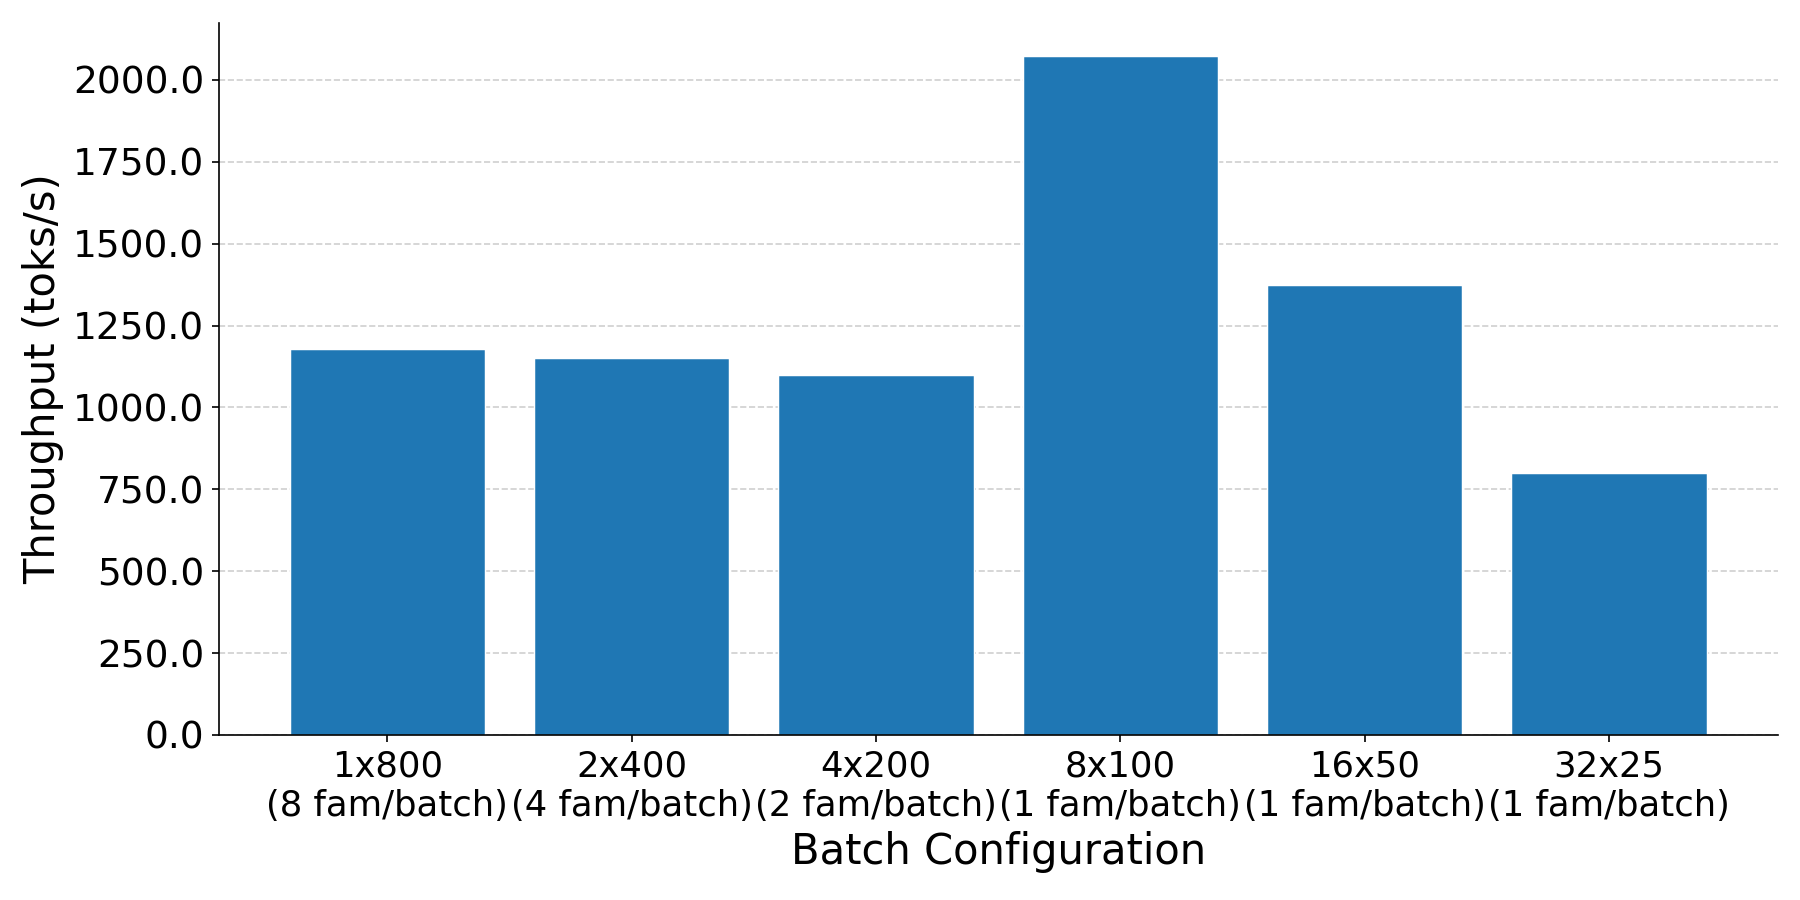
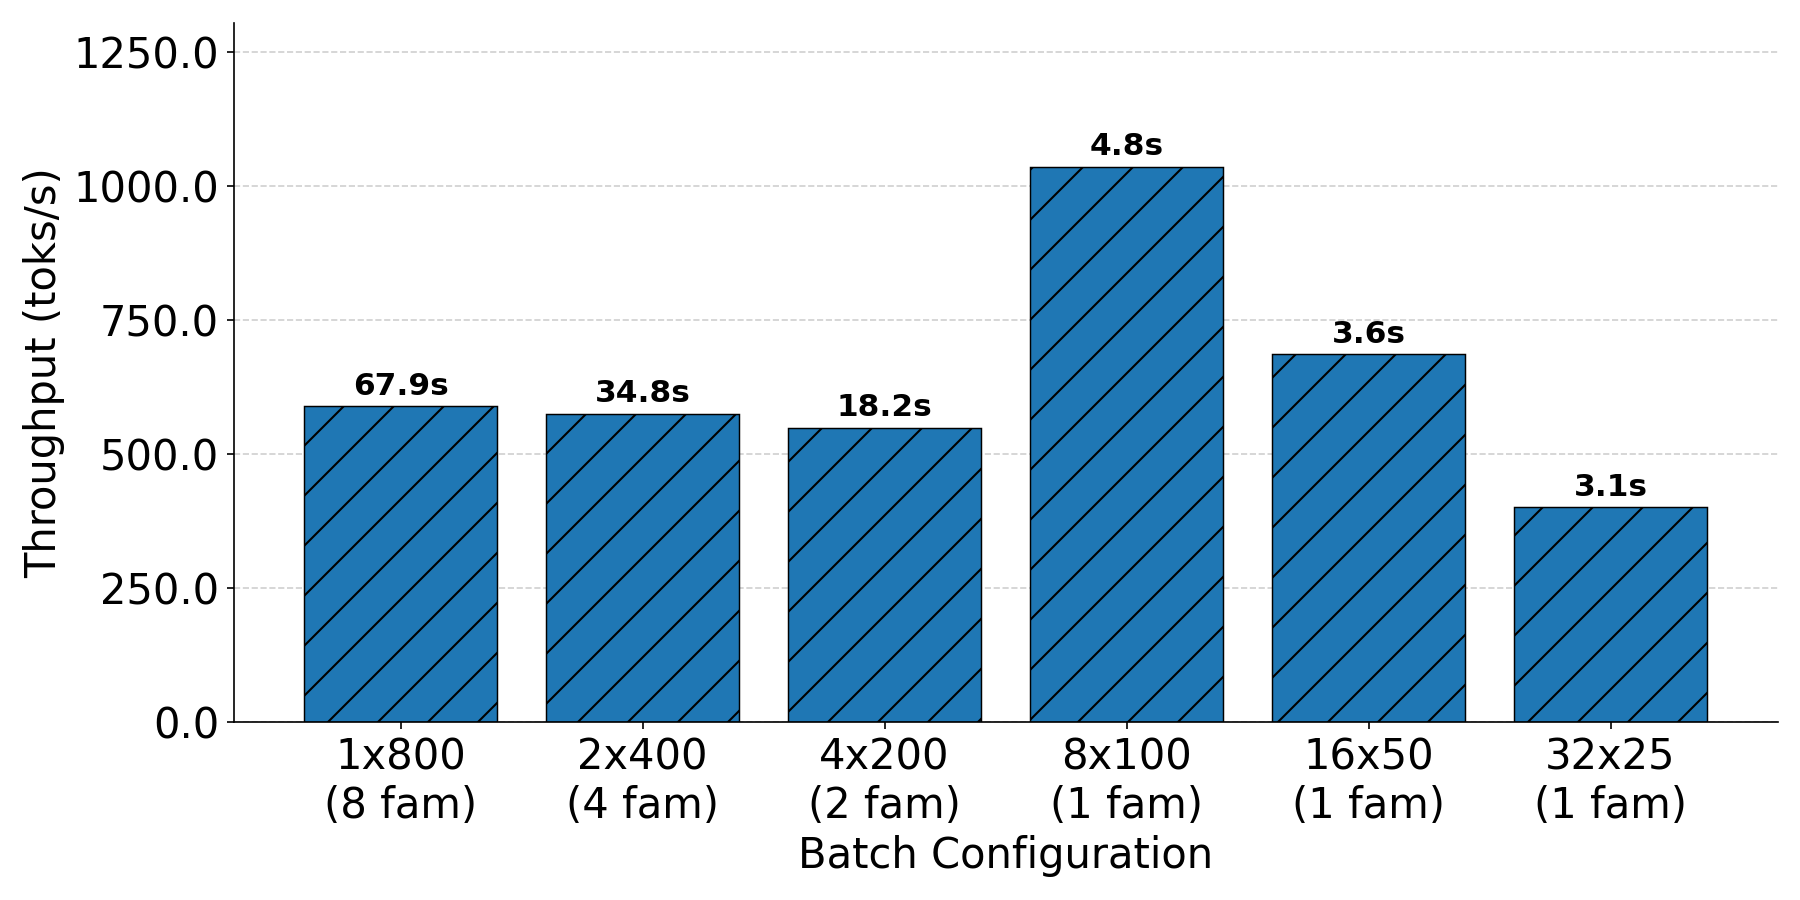
homo hetero intro plot

diff --git a/code/vllm/homo_hetero/plot_intro.py b/code/vllm/homo_hetero/plot_intro.py
@@ -1,0 +1,101 @@
+import pandas as pd
+import matplotlib.pyplot as plt
+import numpy as np
+import os
+import argparse
+
+hatches = ['/', '\\', 'x', '-', '+', 'o', '.', '*']
+
+parser = argparse.ArgumentParser()
+parser.add_argument("--csv", type=str, default="/home/saksham/CS496/code/vllm/homo_hetero/summary.csv")
+parser.add_argument("--outdir", type=str, default="../../../results/")
+args = parser.parse_args()
+
+os.makedirs(args.outdir, exist_ok=True)
+
+df = pd.read_csv(args.csv)
+df["avg_throughput_req_s"] = pd.to_numeric(df["avg_throughput_req_s"], errors="coerce")
+
+# Multiply throughput by decode tokens
+df["throughput_tok_s"] = df["avg_throughput_req_s"] * df["max_new_tokens"]
+
+df = df[df["max_new_tokens"] == 100].copy()
+df = df.sort_values(["max_new_tokens", "mode"]).reset_index(drop=True)
+
+SETTINGS = [
+    "1x800\n(8 fam)",
+    "2x400\n(4 fam)",
+    "4x200\n(2 fam)",
+    "8x100\n(1 fam)",
+    "16x50\n(1 fam)",
+    "32x25\n(1 fam)",
+]
+
+# Batch sizes corresponding to each setting (total requests per batch)
+BATCH_SIZES = [800, 400, 200, 100, 50, 25]
+
+tokens = sorted(df["max_new_tokens"].unique())
+num_tokens = len(tokens)
+num_configs = len(SETTINGS)
+
+x = np.arange(num_configs)
+bar_width = 0.8 / num_tokens
+
+fig, ax = plt.subplots(figsize=(12, 6))
+
+for i, tok in enumerate(tokens):
+    subset = df[df["max_new_tokens"] == tok].sort_values("mode").reset_index(drop=True)
+
+    if len(subset) != num_configs:
+        print(f"[WARN] max_new_tokens={tok} has {len(subset)} rows (expected {num_configs}), skipping.")
+        continue
+
+    throughputs = subset["throughput_tok_s"].tolist()
+    offset = (i - num_tokens / 2) * bar_width + bar_width / 2
+    bars = ax.bar(
+        x + offset,
+        throughputs,
+        width=bar_width,
+        label=f"{tok} tokens",
+        edgecolor="black",
+        linewidth=0.7,
+        hatch=hatches[i % len(hatches)]
+    )
+
+    # Add execution time label on top of each bar
+    for bar, tp_tok_s, batch_size in zip(bars, throughputs, BATCH_SIZES):
+        if tp_tok_s > 0:
+            # tok/s → req/s (200 toks per request)
+            tp_req_s = tp_tok_s / 100.0
+            # time to process full batch
+            exec_time = batch_size / tp_req_s
+            label = f"{exec_time:.1f}s"
+        else:
+            label = "N/A"
+
+        ax.text(
+            bar.get_x() + bar.get_width() / 2,
+            bar.get_height() + max(throughputs) * 0.01,  # small padding above bar
+            label,
+            ha='center', va='bottom',
+            fontsize=15, fontweight='bold', color='black',
+        )
+
+ax.set_xticks(x)
+ax.set_xticklabels(SETTINGS, fontsize=20)
+ax.set_yticklabels(ax.get_yticks(), fontsize=20)
+ax.set_ylabel("Throughput (toks/s)", fontsize=20)
+ax.set_xlabel("Batch Configuration", fontsize=20)
+ax.yaxis.grid(True, linestyle="--", alpha=0.6)
+ax.set_axisbelow(True)
+ax.spines["top"].set_visible(False)
+ax.spines["right"].set_visible(False)
+
+# Extra top margin so rotated labels don't get clipped
+ax.set_ylim(top=ax.get_ylim()[1] * 1.2)
+
+plt.tight_layout()
+out_path = os.path.join(args.outdir, "prefill_decode_homo_hetero_grouped_throughput_tok100.png")
+plt.savefig(out_path, dpi=150)
+plt.close()
+print(f"\nSaved → {out_path}")
